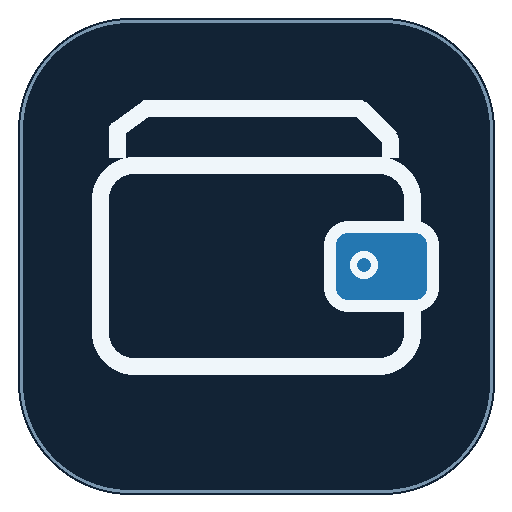
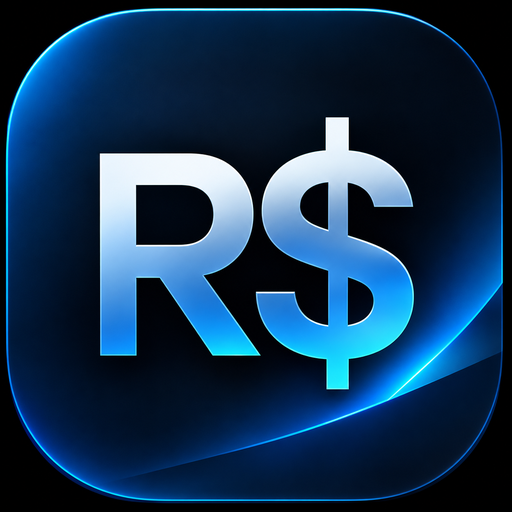
Add files via upload

diff --git a/index.html b/index.html
@@ -8,7 +8,18 @@
     <div class="splash-loader" aria-hidden="true"><span></span></div>
   </div>
 </div>
-<main id="app"><header class="app-header"><img class="header-icon" src="icon-192.png" alt="Ícone de carteira"><div class="header-copy"><small class="brand-kicker"><span class="brand-dot"></span> FINANÇAS PESSOAIS · PRIVADO</small><h1>Meu Financeiro</h1><small id="storageStatus">Salvo neste iPhone</small></div></header>
+<main id="app"><header class="app-header">
+ <button type="button" class="profile-photo-button" id="profilePhotoButton" aria-label="Adicionar ou alterar sua foto">
+  <img id="profilePhoto" src="" alt="Sua foto" hidden>
+  <span id="profilePhotoPlaceholder" class="profile-photo-placeholder">＋</span>
+ </button>
+ <div class="header-copy">
+  <small class="brand-kicker"><span class="brand-dot"></span> FINANÇAS PESSOAIS</small>
+  <div class="welcome-line">SEJA BEM-VINDO, <strong>RODRIGO</strong></div>
+  <h1>Meu Financeiro</h1>
+ </div>
+ <input id="profilePhotoInput" type="file" accept="image/*" hidden>
+</header>
 
 <div class="tab-page is-active" data-page="home" aria-label="Início">
 <section class="balance"><div class="balance-topline"><span class="balance-eyebrow"><i></i> VISÃO GERAL</span><span class="balance-period">SEU PATRIMÔNIO</span></div><small>Saldo total disponível</small><h1 id="total">R$ 0,00</h1><div class="tw"><div>Débito <b id="debit">R$ 0,00</b></div><div>Crédito <b id="credit">R$ 0,00</b></div></div><div class="balance-art" aria-hidden="true"><svg viewBox="0 0 220 150" fill="none" xmlns="http://www.w3.org/2000/svg"><circle cx="153" cy="74" r="63" fill="url(#g1)" opacity=".24"/><circle cx="153" cy="74" r="46" stroke="white" stroke-opacity=".28" stroke-width="1.2"/><path d="M108 105L135 80L154 91L190 48" stroke="#B9FFE9" stroke-width="4" stroke-linecap="round" stroke-linejoin="round"/><path d="M172 48H190V66" stroke="#B9FFE9" stroke-width="4" stroke-linecap="round" stroke-linejoin="round"/><rect x="24" y="23" width="82" height="55" rx="13" fill="url(#g2)" stroke="white" stroke-opacity=".48"/><path d="M38 40H88M38 51H70" stroke="white" stroke-opacity=".78" stroke-width="3" stroke-linecap="round"/><circle cx="87" cy="65" r="5" fill="#C7FFF0"/><path d="M30 112C51 92 67 90 88 103" stroke="white" stroke-opacity=".35" stroke-width="2" stroke-linecap="round"/><defs><linearGradient id="g1" x1="90" y1="11" x2="210" y2="138" gradientUnits="userSpaceOnUse"><stop stop-color="#8CF2D0"/><stop offset="1" stop-color="#56A8FF"/></linearGradient><linearGradient id="g2" x1="24" y1="23" x2="106" y2="78" gradientUnits="userSpaceOnUse"><stop stop-color="white" stop-opacity=".35"/><stop offset="1" stop-color="white" stop-opacity=".08"/></linearGradient></defs></svg></div></section>
@@ -69,7 +80,7 @@
   </div>
  </section>
 </div>
-<footer>Seus lançamentos ficam armazenados localmente neste iPhone. Não há conta nem sincronização em nuvem.</footer>
+<footer>Seu controle financeiro, em um só lugar.</footer>
 <nav class="bottom-nav" aria-label="Navegação principal">
  <button type="button" class="nav-item active" data-tab="home" aria-current="page"><svg viewBox="0 0 24 24" aria-hidden="true"><path d="M3 10.8 12 3l9 7.8v9.1a1.1 1.1 0 0 1-1.1 1.1h-5.2v-6.3H9.3V21H4.1A1.1 1.1 0 0 1 3 19.9z" fill="currentColor"/></svg><span>Início</span></button>
  <button type="button" class="nav-item" data-tab="transactions"><svg viewBox="0 0 24 24" aria-hidden="true"><rect x="3" y="3" width="18" height="7" rx="1.7"/><rect x="3" y="14" width="8" height="7" rx="1.7"/><rect x="14" y="14" width="7" height="7" rx="1.7"/></svg><span>Lançamentos</span></button>

diff --git a/app.js b/app.js
@@ -280,3 +280,41 @@ $('voiceText').addEventListener('input',()=>{
  if(media.addEventListener)media.addEventListener('change',syncSystemTheme);
  else if(media.addListener)media.addListener(syncSystemTheme);
 })();
+
+
+/* Foto de perfil local para a saudação da página inicial */
+(function(){
+ const input=document.getElementById('profilePhotoInput');
+ const button=document.getElementById('profilePhotoButton');
+ const photo=document.getElementById('profilePhoto');
+ const placeholder=document.getElementById('profilePhotoPlaceholder');
+ const KEY='meu-financeiro-profile-photo-v1';
+ function applyPhoto(src){
+  if(src){photo.src=src;photo.hidden=false;placeholder.hidden=true;button.classList.add('has-photo');}
+  else{photo.removeAttribute('src');photo.hidden=true;placeholder.hidden=false;button.classList.remove('has-photo');}
+ }
+ try{const saved=localStorage.getItem(KEY);if(saved)applyPhoto(saved);}catch(e){}
+ button.addEventListener('click',()=>input.click());
+ input.addEventListener('change',()=>{
+  const file=input.files&&input.files[0];if(!file)return;
+  if(!file.type.startsWith('image/'))return;
+  const reader=new FileReader();
+  reader.onload=()=>{
+   const img=new Image();
+   img.onload=()=>{
+    const canvas=document.createElement('canvas');
+    const side=480;canvas.width=side;canvas.height=side;
+    const ctx=canvas.getContext('2d');
+    const scale=Math.max(side/img.width,side/img.height);
+    const w=img.width*scale,h=img.height*scale;
+    ctx.drawImage(img,(side-w)/2,(side-h)/2,w,h);
+    const data=canvas.toDataURL('image/jpeg',.82);
+    try{localStorage.setItem(KEY,data);applyPhoto(data);}
+    catch(e){alert('Não foi possível salvar essa foto. Escolha uma imagem menor.');}
+   };
+   img.src=reader.result;
+  };
+  reader.readAsDataURL(file);
+  input.value='';
+ });
+})();

diff --git a/styles.css b/styles.css
@@ -335,3 +335,31 @@ body{padding-bottom:calc(104px + env(safe-area-inset-bottom))}
 @media(prefers-reduced-motion:reduce){
  .tab-page.is-active{animation:none}
 }
+
+
+/* V37 — perfil pessoal e identidade renovada */
+.app-header{gap:13px;align-items:center}
+.profile-photo-button{
+ position:relative;flex:0 0 66px;width:66px;height:66px;padding:0;margin:0;
+ display:grid;place-items:center;overflow:hidden;border-radius:50%;
+ background:linear-gradient(145deg,#eaf1ff,#dce9ff);color:#2764e8;
+ border:2px solid #fff;box-shadow:0 5px 18px rgba(31,78,150,.18),0 0 0 1px #d9e4f3;
+}
+.profile-photo-button:after{
+ content:"＋";position:absolute;right:0;bottom:0;width:23px;height:23px;
+ display:grid;place-items:center;border:2px solid #fff;border-radius:50%;
+ background:#2764e8;color:#fff;font-size:16px;font-weight:500;line-height:1;
+}
+.profile-photo-button img{width:100%;height:100%;object-fit:cover;border-radius:50%}
+.profile-photo-placeholder{font-size:30px;font-weight:300;line-height:1}
+.profile-photo-placeholder[hidden]{display:none}
+.welcome-line{margin:2px 0 3px;font-size:10px;letter-spacing:1.05px;font-weight:750;color:#71839a}
+.welcome-line strong{color:#2764e8;font-weight:900}
+.header-copy h1{margin:0;font-size:22px}
+.header-copy .brand-kicker{font-size:8px}
+@media(prefers-color-scheme:dark){
+ .profile-photo-button{background:linear-gradient(145deg,#263c61,#1b2b45);border-color:#233752;box-shadow:0 5px 18px rgba(0,0,0,.35),0 0 0 1px #3c5270}
+ .profile-photo-button:after{border-color:#172334;background:#4c82ed}
+ .welcome-line{color:#9eacc0}
+ .welcome-line strong{color:#9dbaff}
+}

diff --git a/sw.js b/sw.js
@@ -1,4 +1,4 @@
-const CACHE='meu-financeiro-local-v36-ios-tabs-system-theme';
+const CACHE='meu-financeiro-local-v40-icone-minimalista-4k';
 const FILES=['./','./index.html','./styles.css','./app.js','./manifest.webmanifest','./icon-192.png','./icon-512.png'];
 self.addEventListener('install',event=>event.waitUntil(caches.open(CACHE).then(cache=>cache.addAll(FILES)).then(()=>self.skipWaiting())));
 self.addEventListener('activate',event=>event.waitUntil(caches.keys().then(keys=>Promise.all(keys.filter(key=>key!==CACHE).map(key=>caches.delete(key)))).then(()=>self.clients.claim())));
